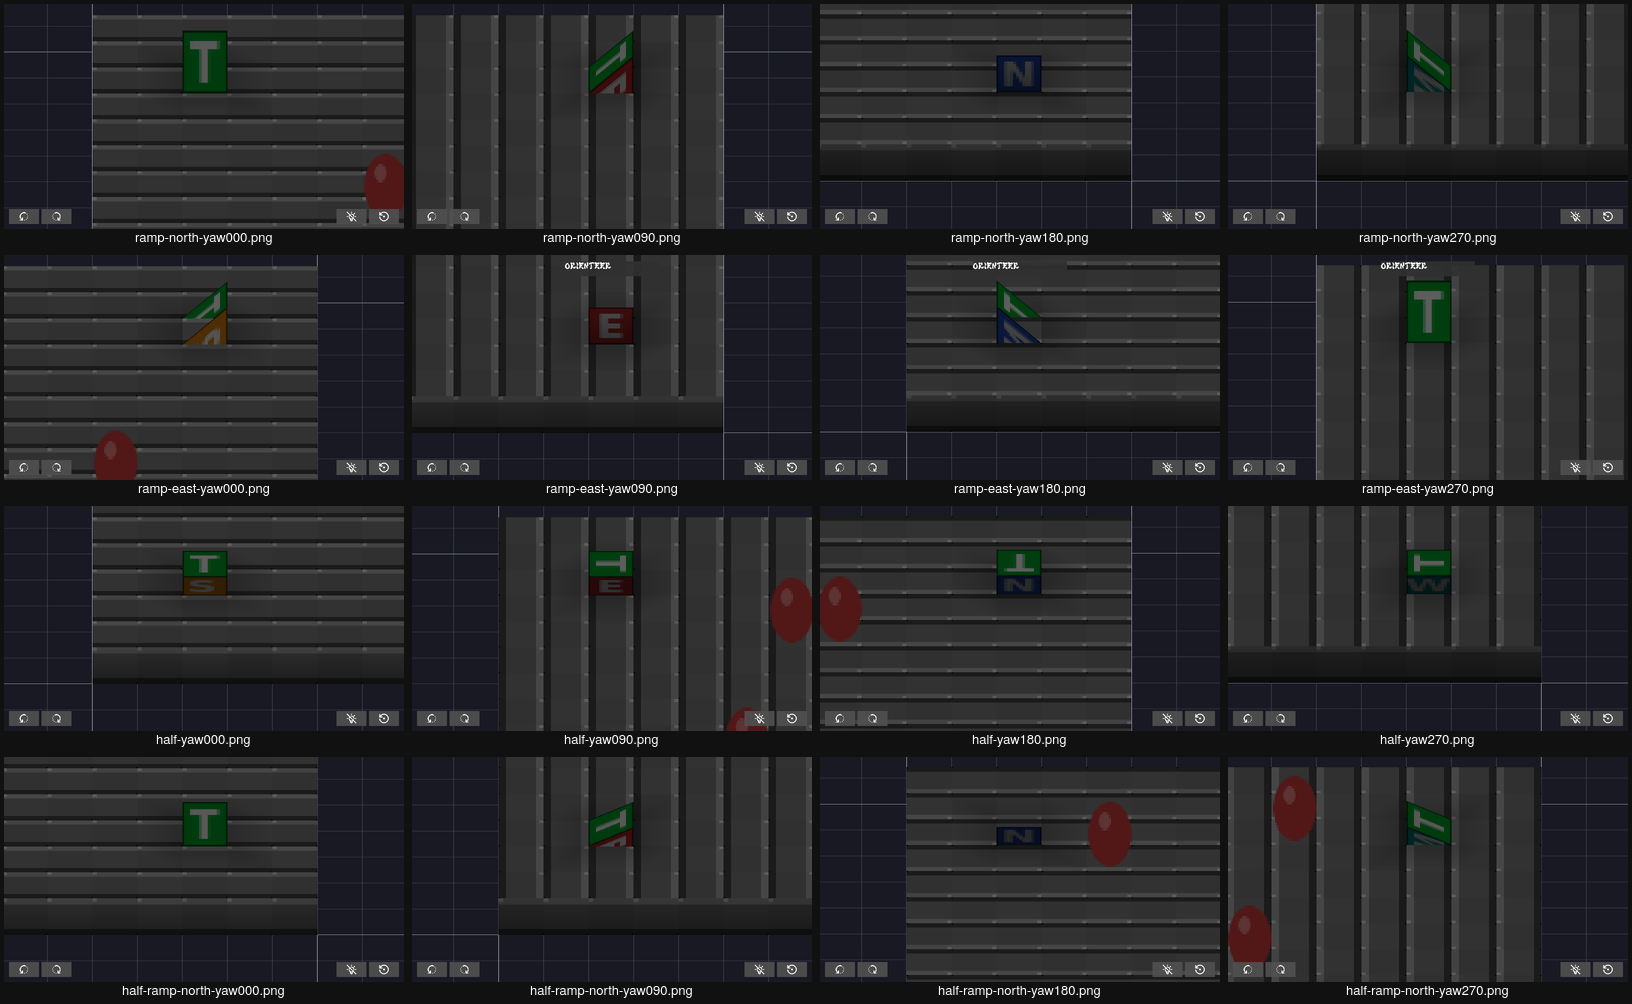
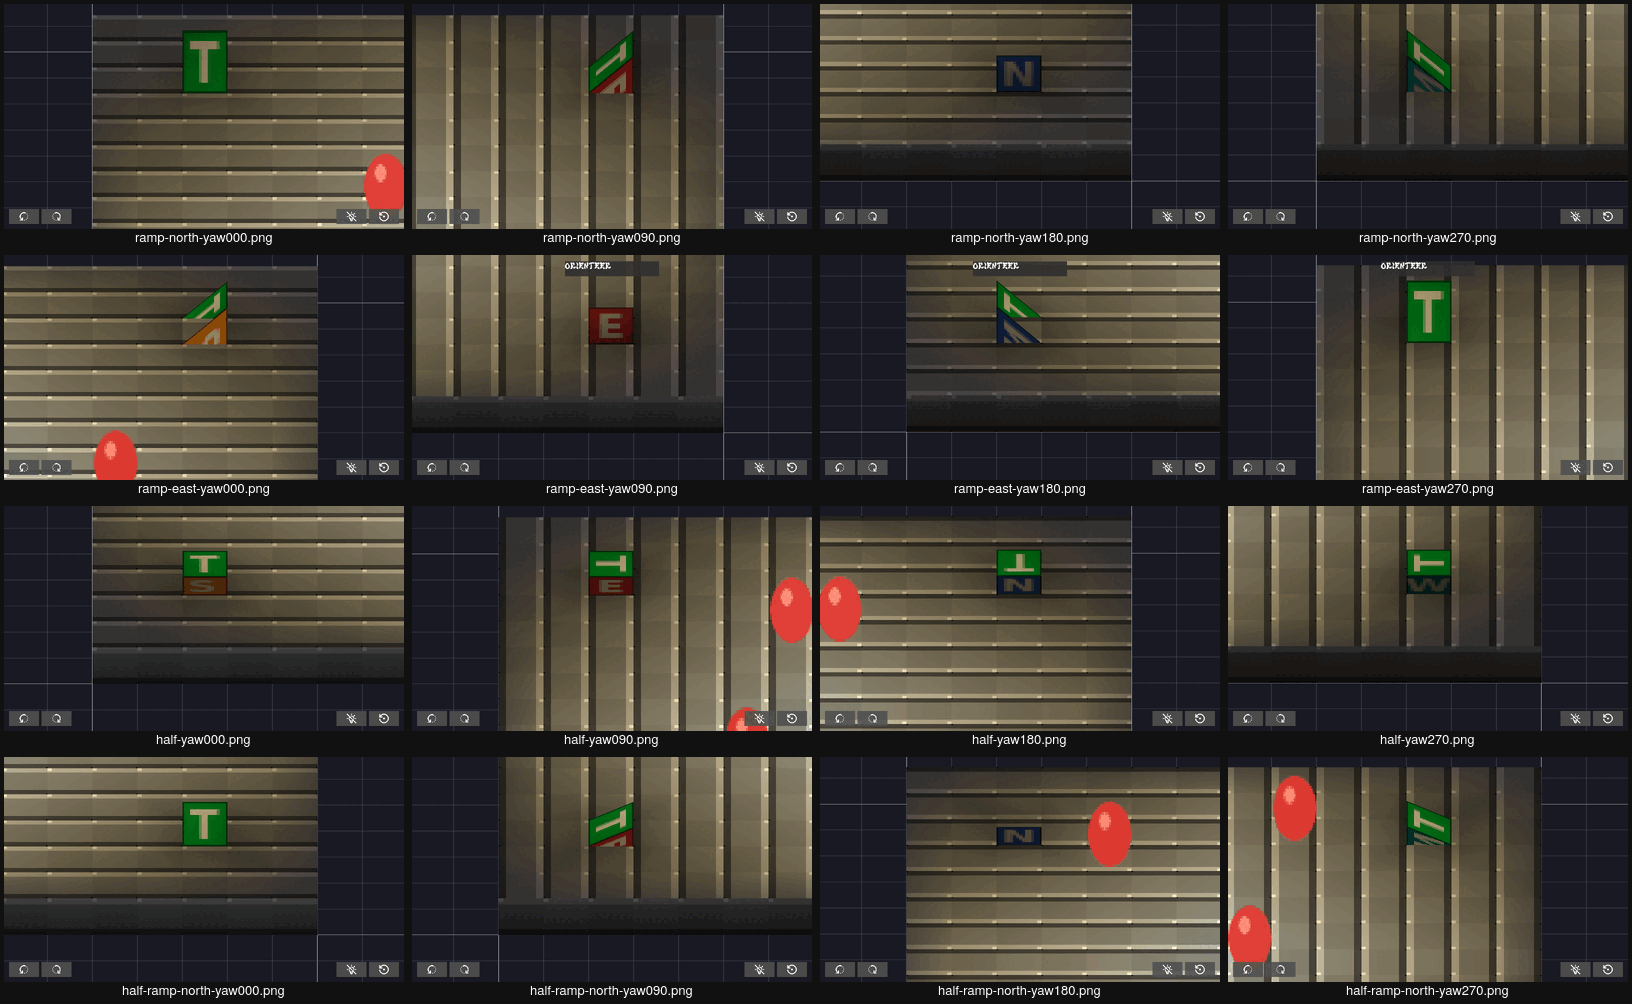
fix(t18): bring the specimen light inside the light grid, re-capture
The specimen light was at y=9 but the level builds the light grid with
height voxmapLevels+1 (3 here), so lightGridSeedPoint rejected it and the
docs' 'warms the tiles' claim was false. Move it to (8,2,8) (one air
layer above the ground, in-grid), regenerate the map, and re-run the
Xvfb capture pipeline: the tiles are now genuinely lit (half-yaw000's
tile region mean 0.149 -> 0.219, warmer).

Also correct the ramp-east-yaw270 description (the slope is nearly
face-on, not edge-on) and the stale specimen coords in the generator
header; audit the other 15 descriptions (accurate).

diff --git a/docs/images/tiles/README.md b/docs/images/tiles/README.md
@@ -14,8 +14,9 @@ the **north**, `270` from the **west** (see
 
 Each tile sits on ground level 1 above a stone floor (level 0), framed at max
 zoom. The red billboards are the level scene's three sprite entities (fixed
-positions, independent of the map); the map itself carries a point light that
-warms the tiles.
+positions, independent of the map). The map carries a warm point light at
+`(8, 2, 8)` — one air layer above the ground, inside the level's light grid
+(whose height is `levels + 1`) — which warms the tiles.
 
 ## Files
 
@@ -43,8 +44,9 @@ warms the tiles.
   - yaw 000 — slope plus the **south triangle** (`SOUTH` slot, orange "S").
   - yaw 090 — the **back face** (`EAST` slot, red "E") faces the camera.
   - yaw 180 — slope plus the **north triangle** (`NORTH` slot, blue "N").
-  - yaw 270 — slope edge-on only (the back face is east, the triangles are
-    north/south; none faces west) — a green "T" wedge.
+  - yaw 270 — the **slope faces the camera nearly face-on** (its normal points
+    up-west): a full green "T" quad. The east back face is culled (dot < 0) and
+    both triangles are edge-on (dot ≈ 0); nothing else is visible.
 - **half**
   - yaw 000 / 090 / 180 / 270 — the flat **top** (`TOP`, green "T") plus the
     camera-facing 0.5-high side: south (`S`), east (`E`), north (`N`), west
